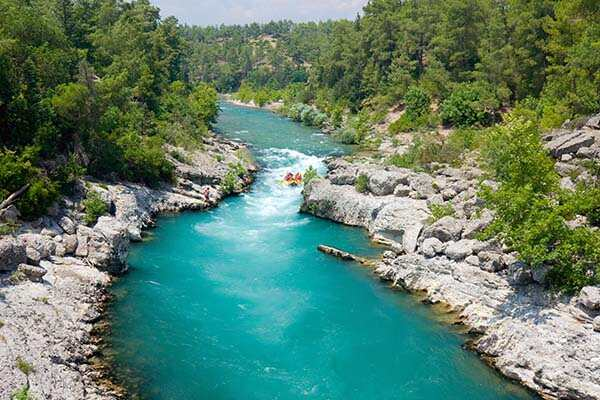
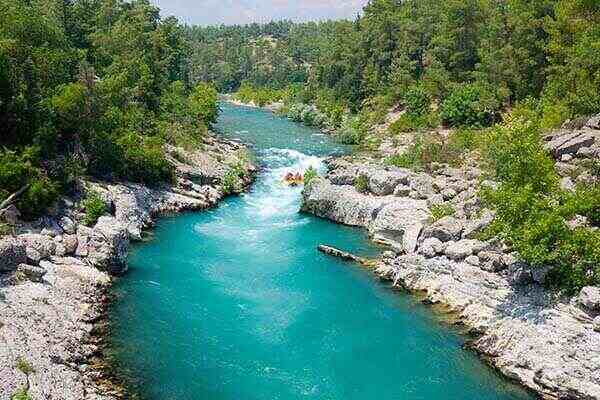
some more changes

diff --git a/wwr/about.html b/wwr/about.html
@@ -23,7 +23,7 @@
     </header>
     <main>
         <div class="hero">
-            <img src="images/rafting17_600.webp" alt="banner">
+            <img src="images/rafting27_1024.jpg" alt="banner">
             <h1>White Water Rafting</h1>
             <article>
                 <img src="images/guide_profile.webp" alt="client">
